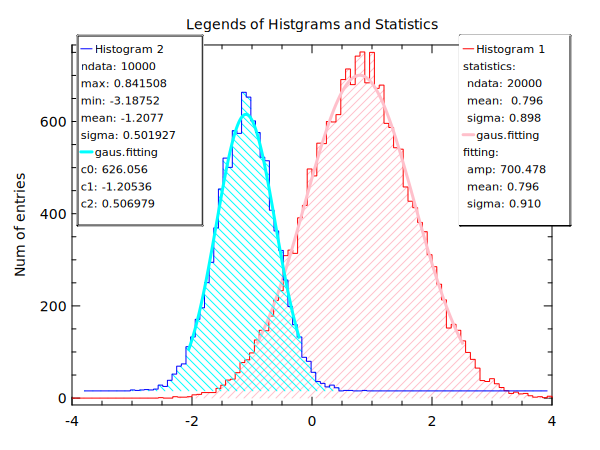
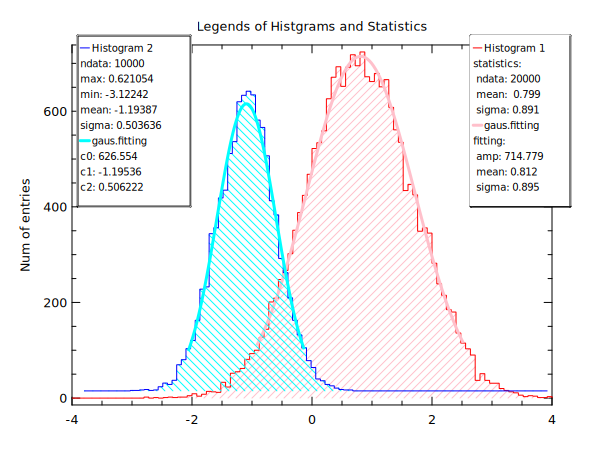
doc: modify ex28,ex29

diff --git a/doc/ex/ex29.md b/doc/ex/ex29.md
@@ -21,11 +21,11 @@ fit x2 y2 quad (lc:cyan lg:*)          ;# lg:* add "quad fit"
 opt (fc:wheat) ;# fill color in the legend box
 opt (cr:0)     ;# not clear legend
 
-leg show r,m   ;# right,middle
-leg show r,b   ;# right,bottom
-leg show m,t   ;# middle,top
-leg show m,b   ;# middle,bottom
-leg show l,t   ;# left,top
-leg show l,m   ;# left,middle
+leg show r,m           ;# right,middle
+leg show r,b (ts:0.8)  ;# right,bottom (text size 0.8)
+leg show m:1.2,t       ;# middle(xscale:1.2),top
+leg show m,b:0.9       ;# middle,bottom(yscale:0.9)
+leg show l:1.2,t:0.8   ;# left(xscale:1.2),top(yscale:0.8)
+leg show l,m           ;# left,middle
 ```
 ![](../fig/ex29.png)

diff --git a/doc/ex/ex28.md b/doc/ex/ex28.md
@@ -7,7 +7,7 @@ set x2=random(10000,gaus,0.5,-1.2)
 
 xlab " "
 ylab "Num of entries"
-opt (ym:0.02 xr:-4,4)
+opt (ym:0.02 xr:-4,4 ts:0.9)
 
 # Here we get statistics from 'stat' command 
 hplot x1 (lc:red fc:pink ft:p45 lg:"Histogram 1")
@@ -28,7 +28,5 @@ leg show
 # Here we use special tag %stat and %fit
 hplot x2 (lc:blue fc:cyan ft:n45 lg:"Histogram 2 %stat" rp:1)
 hfit x2 gaus (lc:cyan lw:3 lg:"gaus.fitting %fit")
-leg show l,t
-
-```
+leg show l,t```
 ![](../fig/ex28.png)